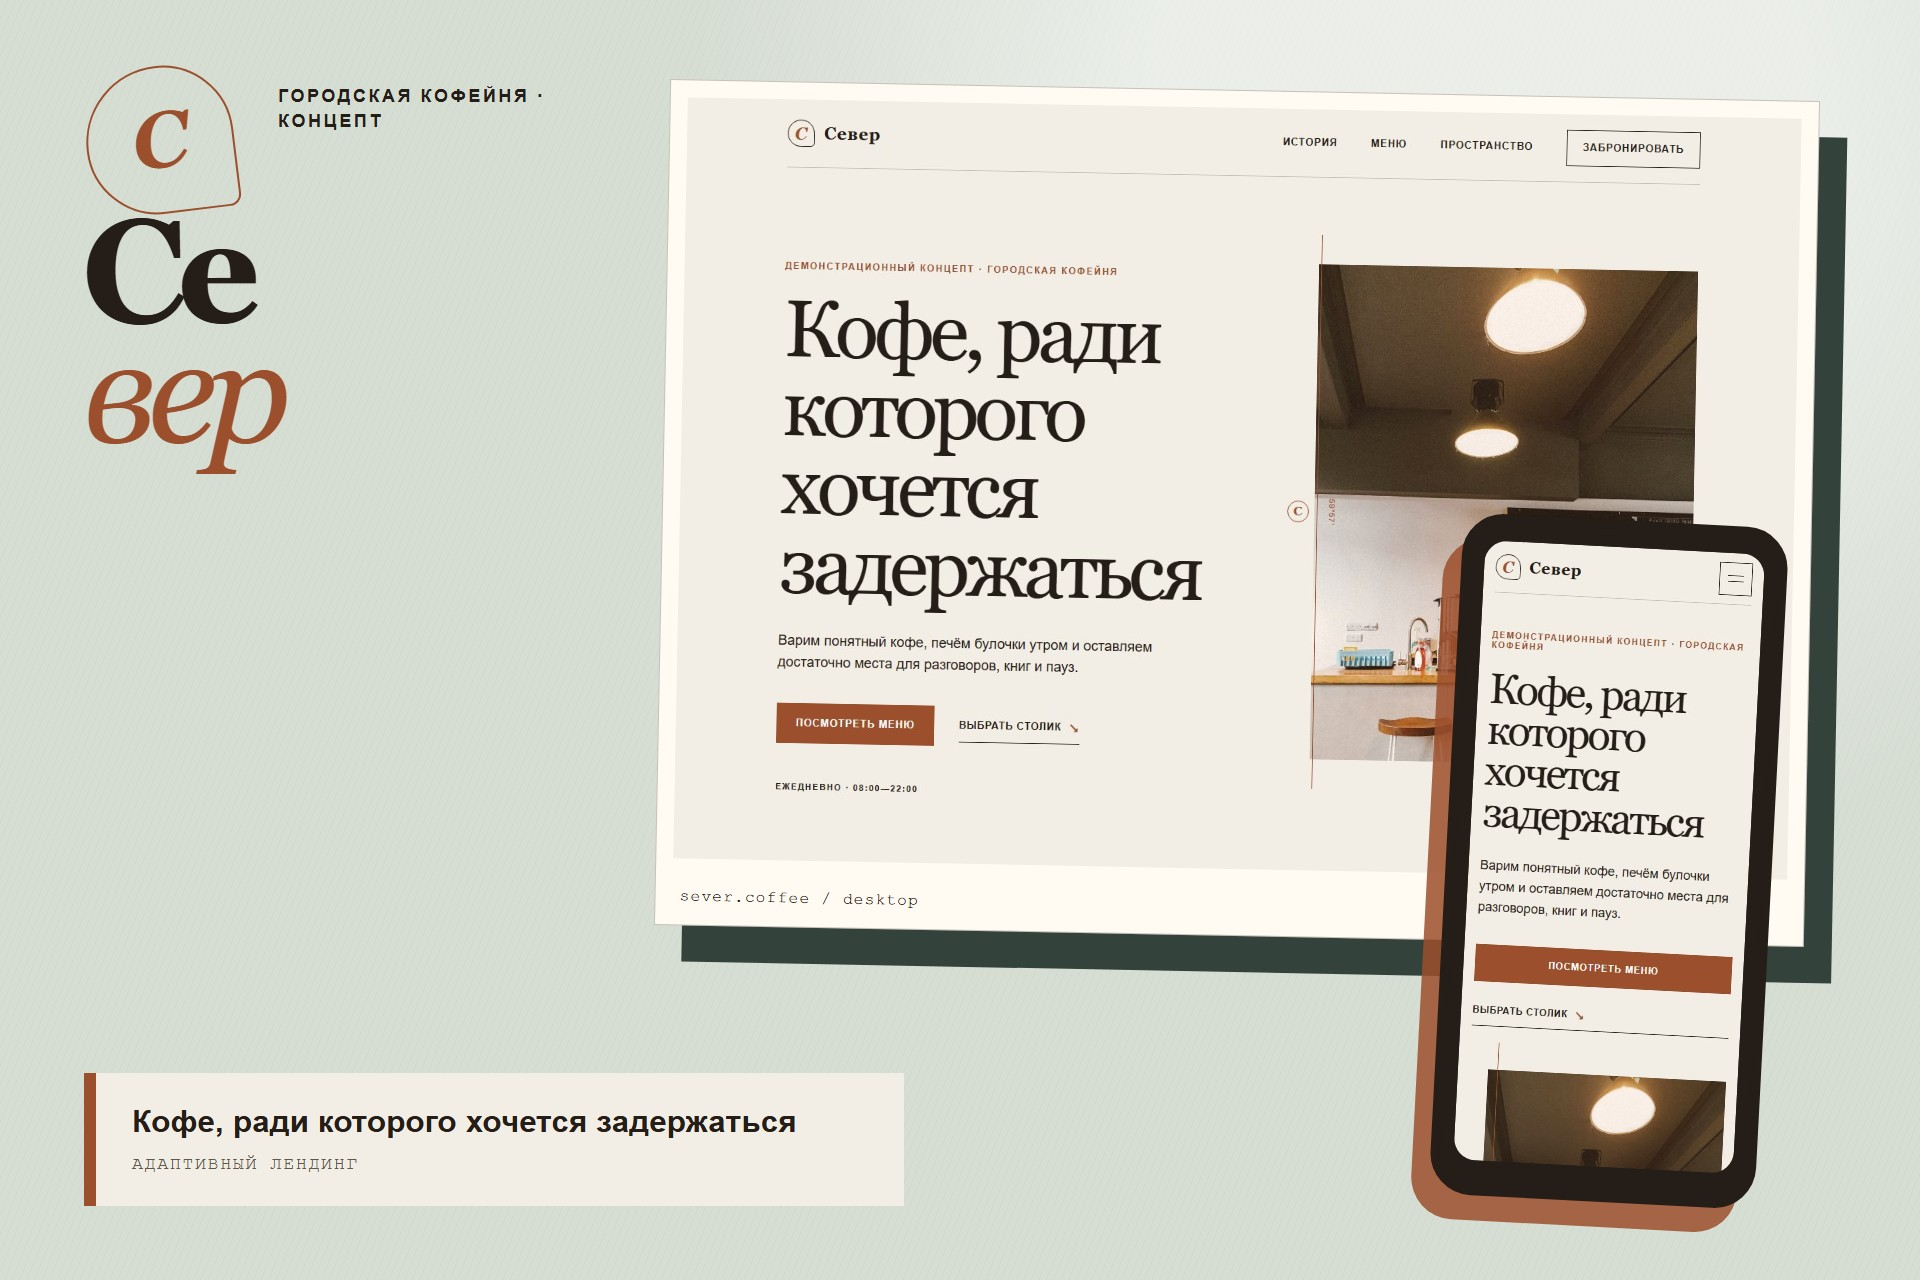
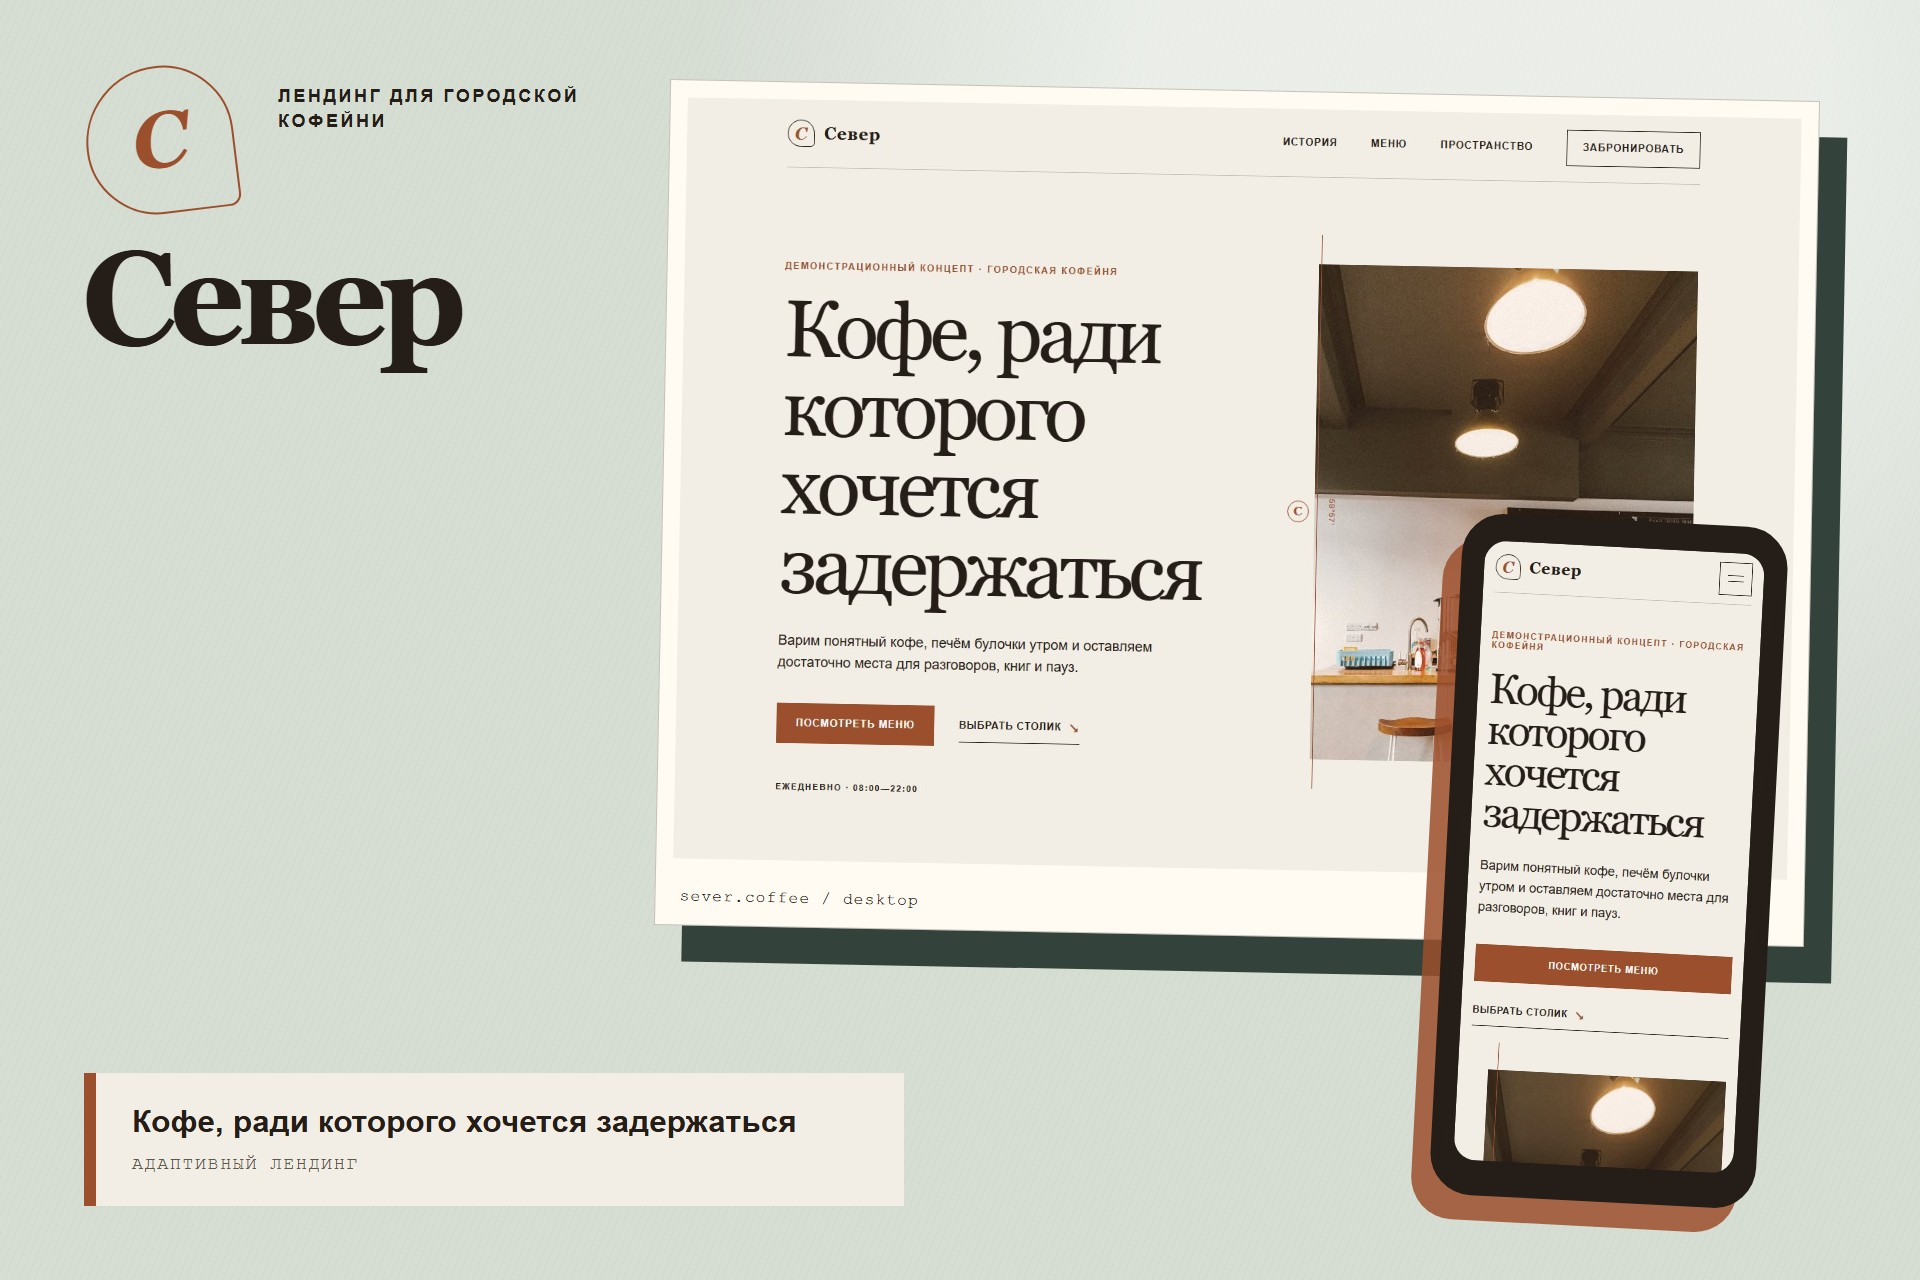
fix: keep Sever cover title on one line

Changed region(s): [[0.0312, 0.1562, 0.25, 0.375], [0.1562, 0.0625, 0.3125, 0.125]]

diff --git a/sites/sever/kwork/cover.html b/sites/sever/kwork/cover.html
@@ -31,10 +31,10 @@
         letter-spacing: .14em; text-transform: uppercase;
       }
       h1 {
-        position: absolute; z-index: 4; top: 212px; left: 82px; margin: 0;
-        font: 700 146px/.82 Georgia, serif; letter-spacing: -.065em;
+        position: absolute; z-index: 4; top: 232px; left: 82px; margin: 0;
+        font: 700 132px/1 Georgia, serif; letter-spacing: -.055em;
+        white-space: nowrap;
       }
-      h1 em { display: block; color: #9c4f2d; font-weight: 400; }
       .desktop {
         position: absolute; top: 74px; right: 68px; width: 1150px; height: 846px;
         padding: 17px 17px 66px; background: #fffaf2;
@@ -75,8 +75,8 @@
   <body>
     <main class="canvas">
       <div class="stamp">С</div>
-      <div class="eyebrow">Городская кофейня · концепт</div>
-      <h1>Се<em>вер</em></h1>
+      <div class="eyebrow">Лендинг для городской кофейни</div>
+      <h1>Север</h1>
       <figure class="desktop"><img src="./desktop.jpg" alt="" /></figure>
       <figure class="phone"><img src="./mobile.jpg" alt="" /></figure>
       <div class="note">

diff --git a/tests/portfolio.spec.js b/tests/portfolio.spec.js
@@ -140,3 +140,20 @@ for (const [slug, claims] of Object.entries(forbiddenClaims)) {
     }
   });
 }
+
+test("sever: название на обложке остаётся цельным словом", async ({ page }) => {
+  await page.goto("/sites/sever/kwork/cover.html");
+
+  const title = page.locator("h1");
+  await expect(title).toHaveText("Север");
+
+  const metrics = await title.evaluate((element) => {
+    const styles = getComputedStyle(element);
+    return {
+      height: element.getBoundingClientRect().height,
+      lineHeight: Number.parseFloat(styles.lineHeight),
+    };
+  });
+
+  expect(metrics.height).toBeLessThan(metrics.lineHeight * 1.25);
+});
